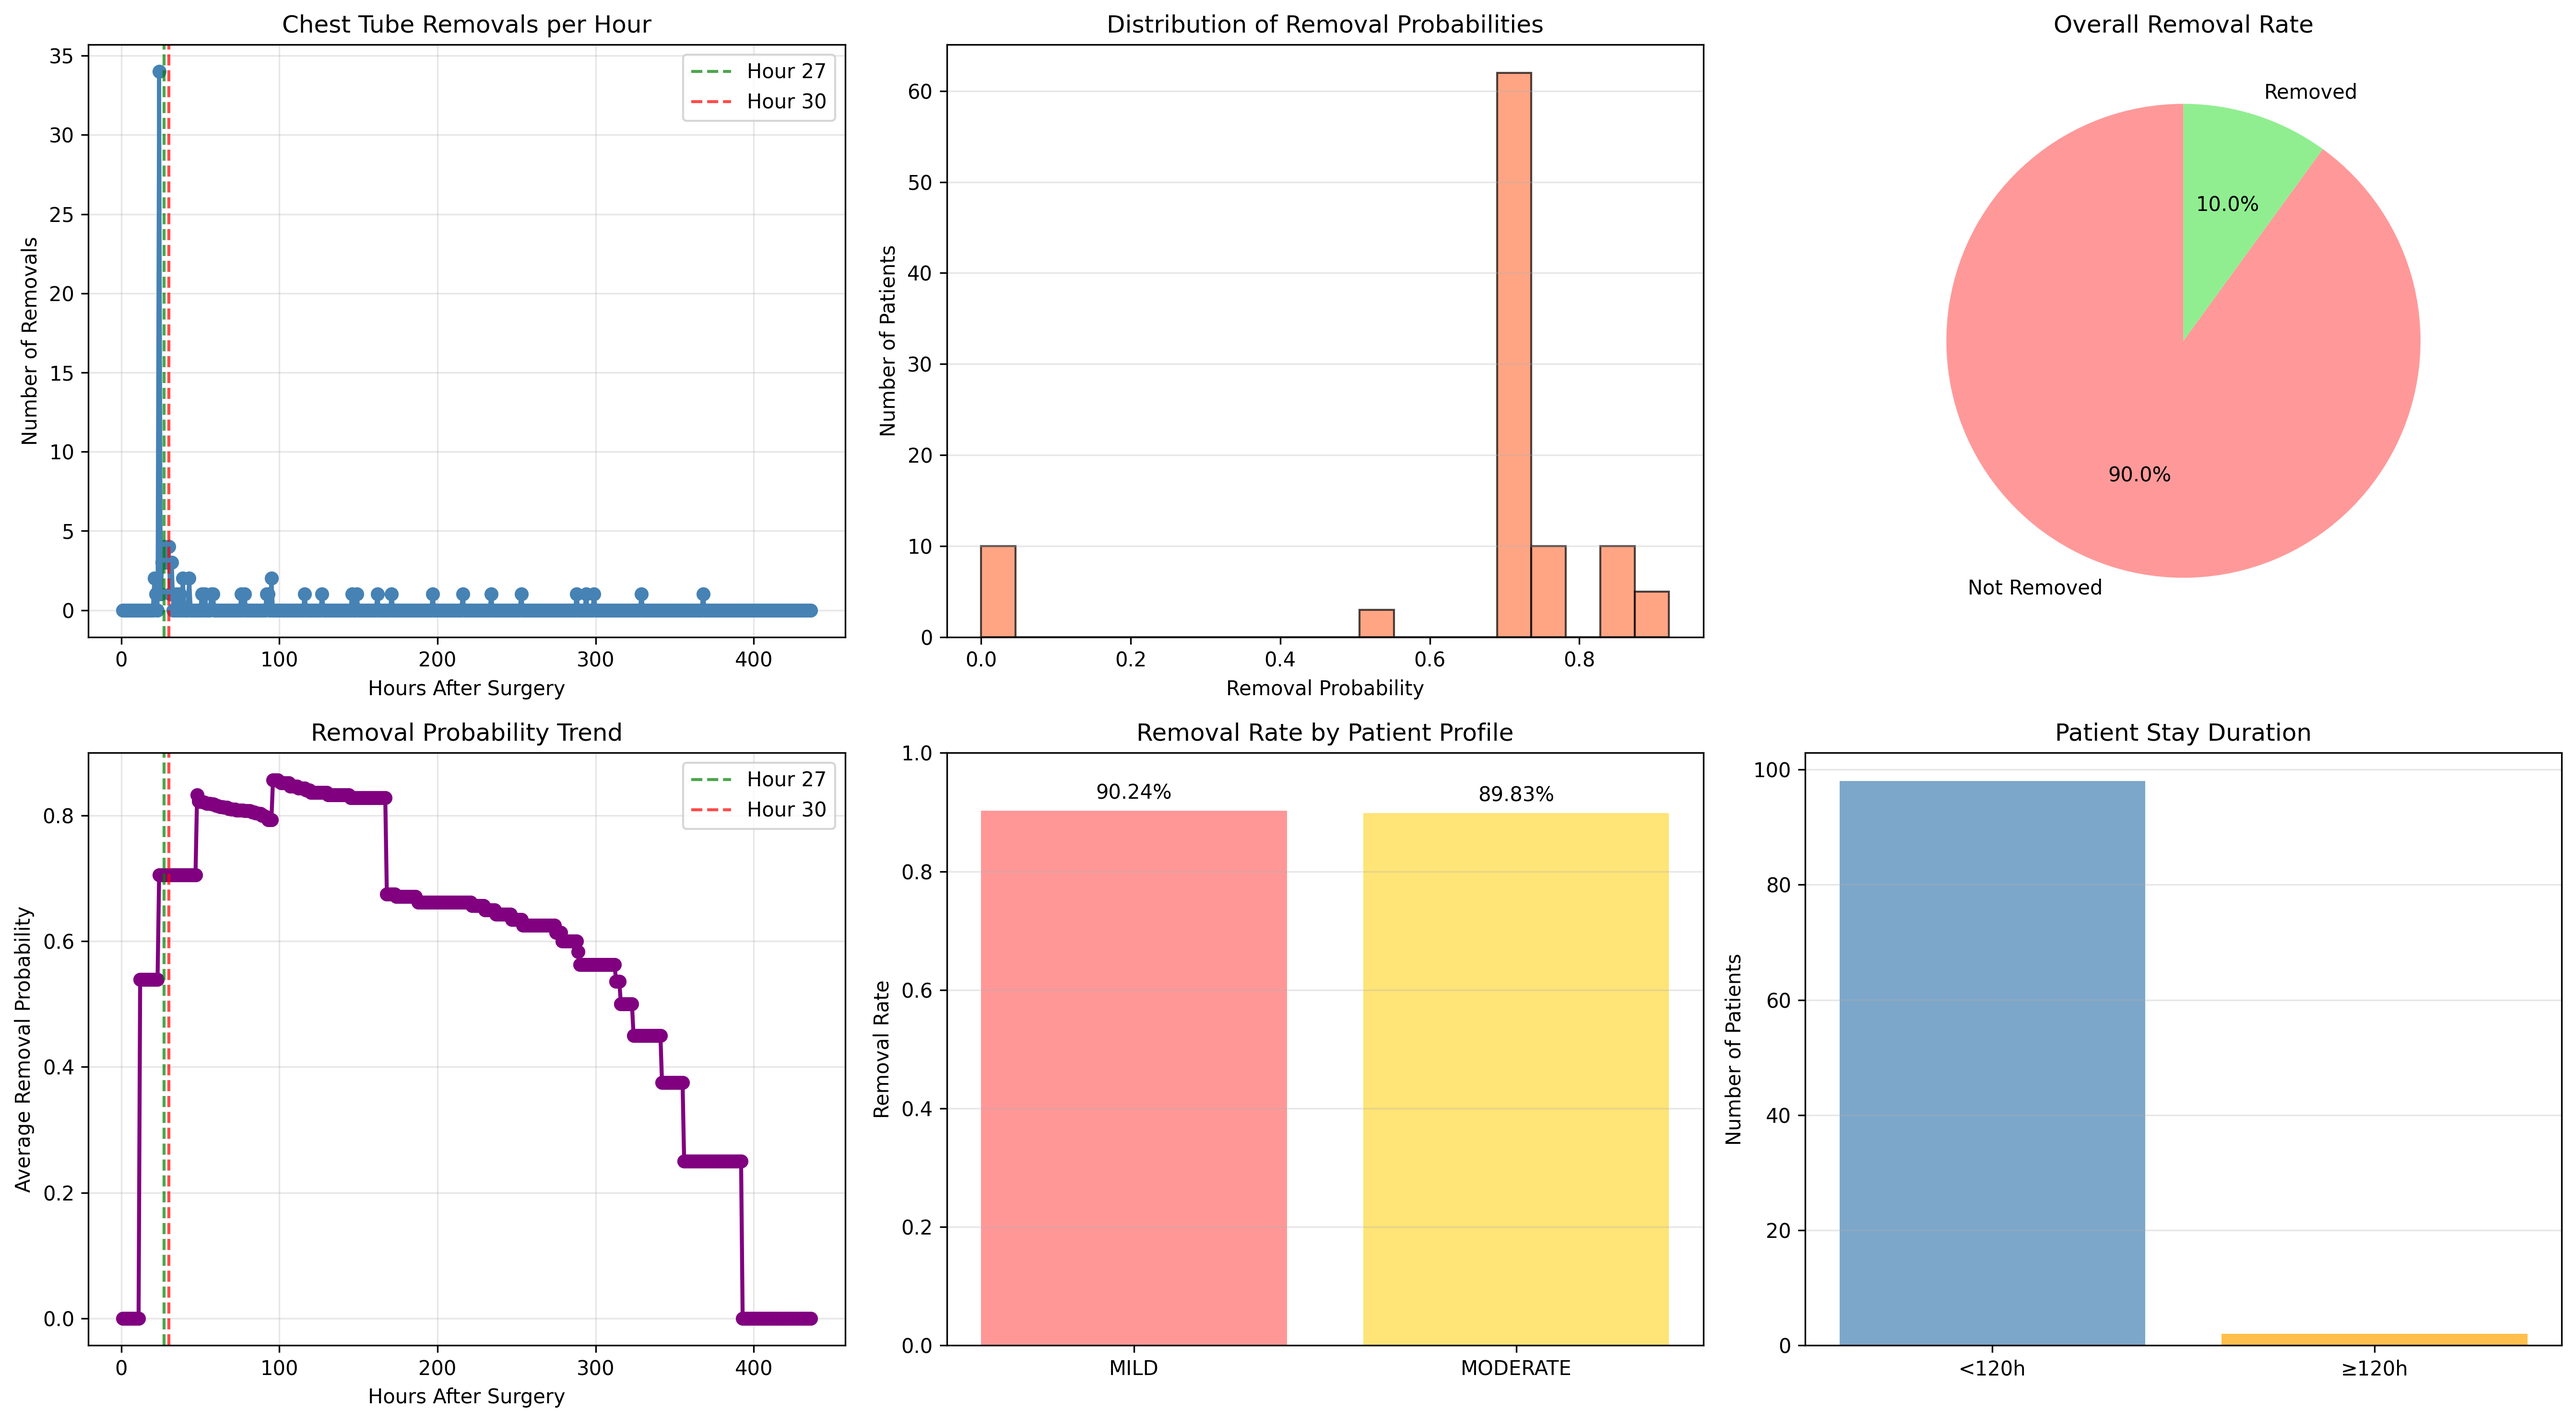
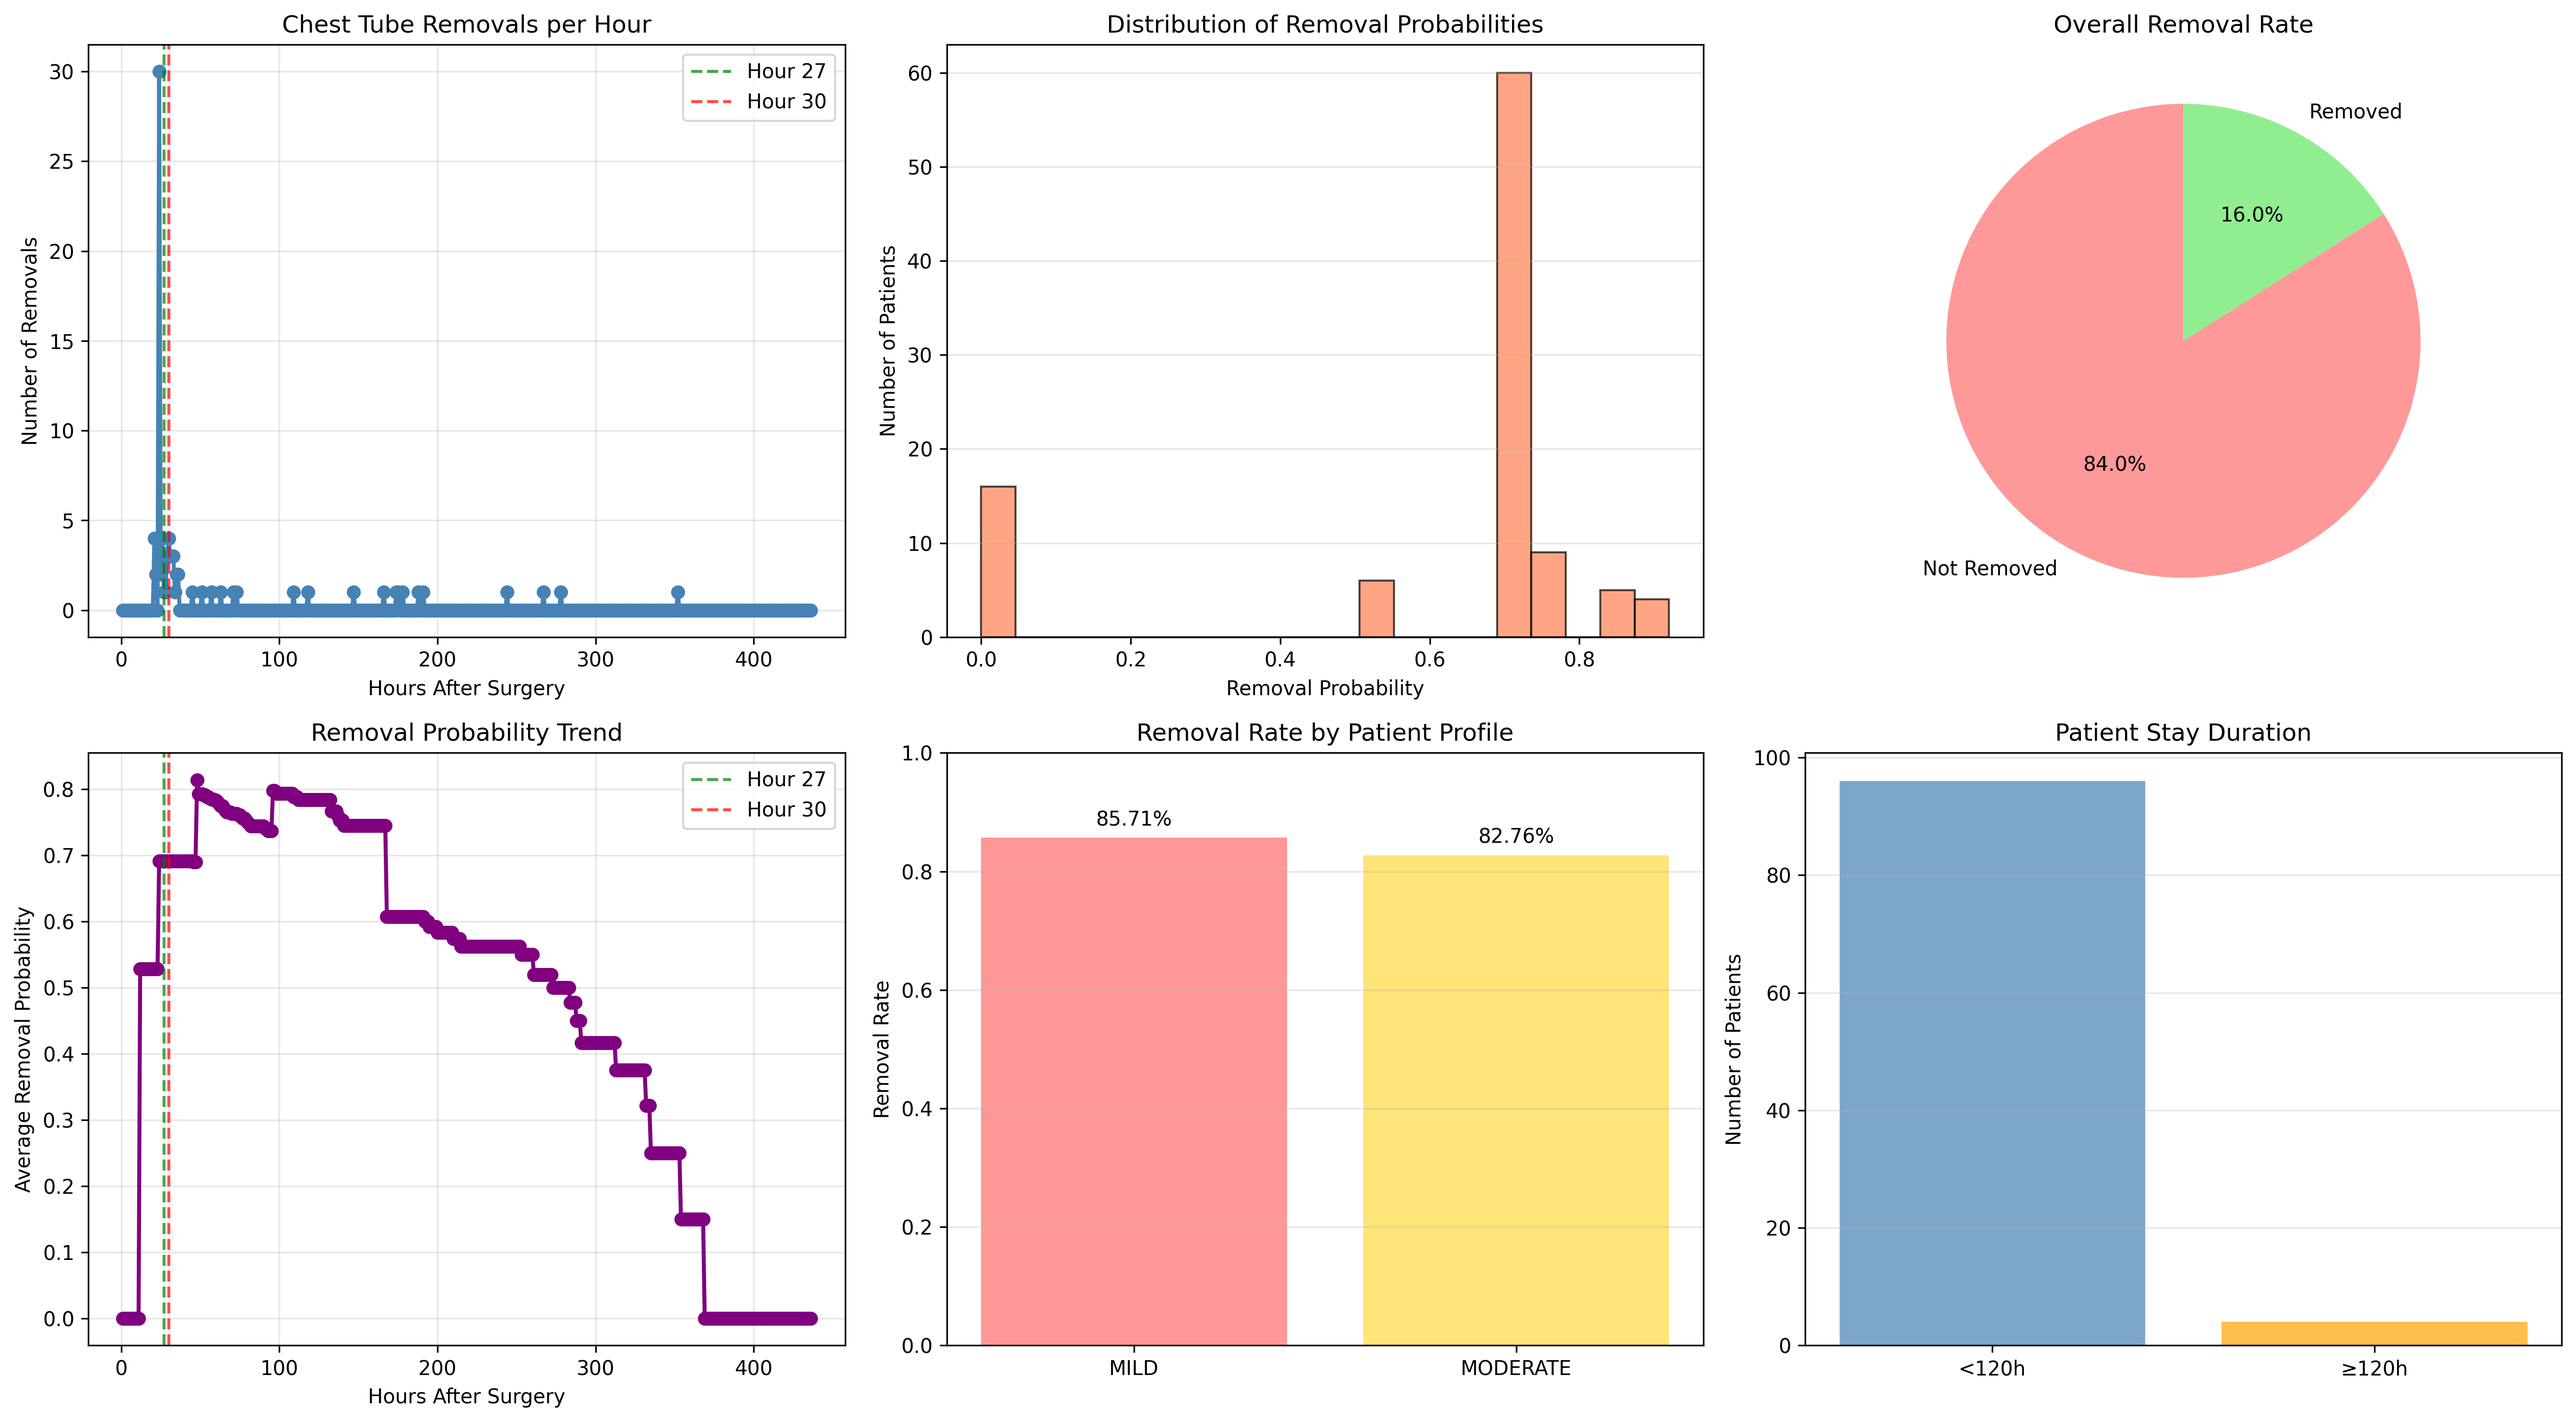
updated graphs

diff --git a/graphs/tableflow_graphs.py b/graphs/tableflow_graphs.py
@@ -39,7 +39,10 @@ def plot_removal_metrics(removal_df, hourly_df, output_file="removal_analysis.pn
     axes[0, 1].set_title("Distribution of Removal Probabilities")
     axes[0, 1].grid(axis="y", alpha=0.3)
 
-    removal_counts = removal_df["Removed"].value_counts()
+    # value_counts() sorts by count, not by True/False -- pin the order
+    # explicitly so it always lines up with the "Not Removed"/"Removed"
+    # labels below regardless of which outcome happens to be more common.
+    removal_counts = removal_df["Removed"].value_counts().reindex([False, True], fill_value=0)
     axes[0, 2].pie(
         removal_counts.values,
         labels=["Not Removed", "Removed"],
